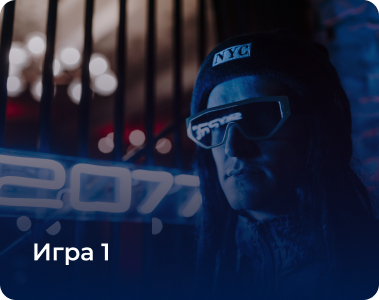
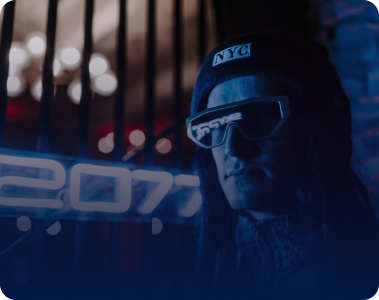
доделала for_item

Changed region(s): [[0.0871, 0.81, 0.2902, 0.9]]

diff --git a/style.css b/style.css
@@ -30,7 +30,7 @@ a {
     color: #FFFFFF;
     padding-top: 218px;
     margin-bottom: 32px;
-    padding-left: 120px;
+    
 
 }
 
@@ -45,7 +45,7 @@ a {
     width: 481px;
     margin-top: 32px;
     margin-bottom: 44px;
-    padding-left: 120px;
+    
 
 }
 
@@ -57,8 +57,12 @@ a {
     outline: none;
     font-size: 18px;
     font-weight: 400;
-    margin-left: 120px;
 
+}
+
+.header__input:focus {
+    outline-color: transparent;
+    outline-style: solid;
 }
 
 .header__input::placeholder {
@@ -86,24 +90,42 @@ a {
     height: 300px;
     grid-column: span 4;
     margin-top: 128px;
-    
+    color: #FFF;
+    font-family: Montserrat;
+    font-size: 24px;
+    font-style: normal;
+    font-weight: 600;
+    display: flex;
+    justify-content: flex-end;
+    flex-direction: column;
+    padding-left: 32px;
+    padding-bottom: 32px;
+
+}
+
+.center {
+    padding-left: 120px;
+    padding-right: 120px;
 }
 
 .for_item_1 {
+    background-image: url(img/top.3.jpg);
+    background-size: cover;
+    background-repeat: no-repeat;
     border-radius: 16px;
-    background: linear-gradient(180deg, rgba(39, 1, 15, 0.00) 0%, #001944 100%), url(img/top.3.jpg), lightgray 50% / cover no-repeat;
 
-    
 }
 
 .for_item_2 { 
+    background-image: url(img/top.4.jpg);
+    background-size: cover;
+    background-repeat: no-repeat;
     border-radius: 16px;
-    background: linear-gradient(180deg, rgba(39, 1, 15, 0.00) 0%, #001944 100%), url(img/top.4.jpg), lightgray 50% / cover no-repeat;
-
 }
 
 .for_item_3 { 
+    background-image: url(img/top.5.jpg);
+    background-size: cover;
+    background-repeat: no-repeat;
     border-radius: 16px;
-    background: linear-gradient(180deg, rgba(39, 1, 15, 0.00) 0%, #001944 100%), url(img/top.5.jpg), lightgray 50% / cover no-repeat;
-    
 }

diff --git a/index.html b/index.html
@@ -15,16 +15,16 @@
     <div class="top center">
         <div class="top__content">
             <h1 class="header__title">Добро пожаловать на мой сайт !</h1>
-            <h2 class="title">Вам предстоит пройти несколько увлекательных игр. Если готов нажимай поехали и приступай</h2>
+            <h2 class="title">Вам предстоит пройти несколько увлекательных игр. Если готов нажимай  <strong>поехали</strong> и <strong>приступай</strong></h2>
             <input class="header__input" placeholder="Поехали!" type="text">
         </div>
     
     </div>
 
     <div class="for center">
-        <div class="for_item for_item_1"></div>
-        <div class="for_item for_item_2"></div>
-        <div class="for_item for_item_3"></div>
+        <div class="for_item for_item_1">Игра 1</div>
+        <div class="for_item for_item_2">Игра 2</div>
+        <div class="for_item for_item_3">Игра 3</div>
     
     </div>
     
